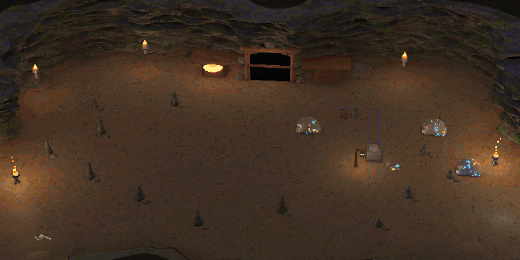
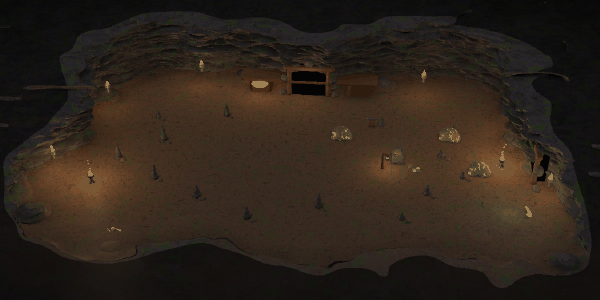
昼3Dの部屋を島のように切り分ける
Claude-Session: https://claude.ai/code/session_01MpJPWy321815AwYbXUCf2V

diff --git a/index.html b/index.html
@@ -1030,12 +1030,12 @@ body:has(.stage) .modal{display:none!important}
 .d3t{flex:0 0 auto;font-size:12px;padding:3px 8px;margin-right:4px;border-radius:8px}
 .d3t.on{background:#7a4a22;border-color:#c98a4a}
 /* 25：昼の3D（部屋を縦に並べる） */
-.d3stack{display:flex;flex-direction:column;padding:0 0 10px;background:#120d0b}
+.d3stack{display:flex;flex-direction:column;padding:0 0 10px;background:#100e0c}
 .d3stack .chall.d3card{position:relative;left:auto;top:auto;width:100%;aspect-ratio:2/1;border-radius:0;overflow:hidden}
 .d3card canvas{position:absolute;inset:0;width:100%;height:100%;display:block;image-rendering:pixelated}
 .d3card .cname{position:absolute;top:6px;left:50%;transform:translateX(-50%);z-index:2;white-space:nowrap}
 .d3stack .chall.sel{outline:2px solid var(--gold);outline-offset:-2px}
-.d3tun{height:16px;display:flex;justify-content:center;background:linear-gradient(#1a1310,#0e0a08)}.d3tun span{width:40px;height:100%;background:linear-gradient(90deg,#3a2a1e,#0b0807 25%,#0b0807 75%,#3a2a1e);border-left:3px solid #5a3e26;border-right:3px solid #5a3e26}
+.d3tun{height:22px;margin:-10px 0;position:relative;z-index:1;display:flex;justify-content:center;background:none;pointer-events:none}.d3tun span{width:26px;height:100%;background:linear-gradient(90deg,#2a2018,#090706 30%,#090706 70%,#2a2018);border-left:2px solid #4a3828;border-right:2px solid #4a3828;border-radius:3px}
 .d3floor{margin:10px 0 6px;text-align:center;color:#e5b85a;font-size:12px;font-weight:700;letter-spacing:.1em}
 </style>
 </head>
@@ -7212,7 +7212,7 @@ document.addEventListener("click", ev => {
 { const _oc2 = openChest19; openChest19 = function (S, c) { if (c.kind !== "lvall") return _oc2(S, c); if (!S.mons.length) return _oc2(S, c);
   return { text: "👑 覚醒", sub: "Lv+3 する子を1体えらんでね", sp: null, feed: 1, awaken: true, evos: [] }; }; }
 
-const VER20 = "No.202（11/18 18:23）";
+const VER20 = "No.203（11/18 18:33）";
 // ================= proto20：ダンジョンを見る画面と、配置する画面を分ける =================
 // ・ダンジョン画面：洞窟を大きく。部屋をタップ → 部屋ボード（全画面）
 // ・🧭育成：育てる→稼ぐ／守るの流れで見る。卒業Lv・毎朝おまかせ
@@ -10981,7 +10981,7 @@ function prebake25(){
 // 部屋を押す＝選ぶ、もう一度＝のぞく、は今まで通り（部屋の札に .chall と data-room を付けているので、今の操作がそのまま効く）
 let day3dOn25 = (() => { try { return localStorage.getItem("day3d25") !== "0"; } catch (e) { return true; } })();
 const D3 = { img: {}, spr: {}, raf: 0, act: {} };
-const DCROP25 = [150, 150, 780, 390], DVR25 = [1080, 708];
+const DCROP25 = [15, 105, 1050, 525], DVR25 = [1080, 708];
 function dproj25(x, y, z){ const c = CAMP24, v = V3.s([x, y, z], c.e), rt = c.M.slice(0, 3), up = c.M.slice(3, 6), fw = c.M.slice(6, 9), zz = V3.d(v, fw);
   const ix = V3.d(v, rt) / zz * c.fl * DVR25[1] + DVR25[0] / 2, iy = DVR25[1] - (V3.d(v, up) / zz * c.fl * DVR25[1] + DVR25[1] / 2);
   return [(ix - DCROP25[0]) / DCROP25[2], (iy - DCROP25[1]) / DCROP25[3], c.fl * DVR25[1] / zz / DCROP25[2], zz]; }
@@ -11005,7 +11005,7 @@ function droom25(i){ const kind = roomKind25(i), on = {}; ROOMSET25[kind].forEac
   const list = all.map(m => ({ sp: m.sp, evo: m.evos || 0, n: 1, act: job(m) }));
   const cast = HAI25.place(on, list, 11 + i * 17);
   const order = all.map((m, k) => ({ m, a: list[k] })).sort((a, b) => HAI25.footR({ sp: b.m.sp, evo: b.m.evos || 0 }) - HAI25.footR({ sp: a.m.sp, evo: a.m.evos || 0 }));
-  const fit = (x, z, r) => { for (let n = 0; n < 30; n++) { const p = dproj25(x, 0, z), pw = r * p[2]; if (p[0] - pw > 0.04 && p[0] + pw < 0.96 && p[1] > 0.32 && p[1] < 0.95) break; x *= 0.92; z = z * 0.9 + 0.3; } return [x, z]; };
+  const fit = (x, z, r) => { for (let n = 0; n < 30; n++) { const p = dproj25(x, 0, z), pw = r * p[2]; if (p[0] - pw > 0.1 && p[0] + pw < 0.9 && p[1] > 0.3 && p[1] < 0.84) break; x *= 0.92; z = z * 0.9 + 0.3; } return [x, z]; };
   const acts = []; cast.forEach((c, k) => { const o = order[k]; if (!o) return; const [fx0, fz0] = fit(c.o[0], c.o[2], HAI25.footR({ sp: o.m.sp, evo: o.m.evos || 0 })); c.o[0] = fx0; c.o[2] = fz0; acts.push({ m: o.m, sp: o.m.sp, evo: o.m.evos || 0, x: c.o[0], z: c.o[2], hx: c.o[0], hz: c.o[2], tx: c.o[0], tz: c.o[2], mode: c.mode, face: Math.random() < 0.5 ? 1 : -1, next: 0, ph: Math.random() * 3 }); });
   if (S.path[i].kind === "lord") acts.push({ lord: true, sp: "lord", evo: typeof lordTier === "function" ? lordTier() : 0, x: 0, z: -3.5, hx: 0, hz: -3.5, tx: 0, tz: -3.5, mode: "idle", face: 1, next: 1e12, ph: 0 });
   return D3.act[i] = { sig, kind, acts }; }
@@ -11015,7 +11015,8 @@ function dcard25(card, i, now, dt){
   const cv = card.querySelector("canvas"), r = cv.getBoundingClientRect(), dpr = Math.min(2, window.devicePixelRatio || 1), W = Math.round(r.width * dpr), H = Math.round(r.height * dpr);
   if (!W) return; if (cv.width !== W || cv.height !== H) { cv.width = W; cv.height = H; }
   const g = cv.getContext("2d"); g.imageSmoothingEnabled = false;
-  const R = droom25(i), bg = dimg25(`bg25/${R.kind}_full.png?v=2`); if (bg.ok) g.drawImage(bg, 0, 0, W, H); else { g.fillStyle = "#1a1412"; g.fillRect(0, 0, W, H); }
+  const R = droom25(i), bg = dimg25(`bg25/${R.kind}_full.png?v=3`); if (bg.ok) g.drawImage(bg, 0, 0, W, H); else { g.fillStyle = "#1a1412"; g.fillRect(0, 0, W, H); }
+  { const E = D3.edge && D3.edge.h === H ? D3.edge : (D3.edge = { h: H, t: (() => { const q = g.createLinearGradient(0, 0, 0, H); q.addColorStop(0, "rgba(16,14,12,1)"); q.addColorStop(0.07, "rgba(16,14,12,0)"); q.addColorStop(0.9, "rgba(16,14,12,0)"); q.addColorStop(1, "rgba(16,14,12,1)"); return q; })() }); g.fillStyle = E.t; g.fillRect(0, 0, W, H); }
   // 動き：ときどき近くへ歩く（働いている子・寝ている子はその場）
   R.acts.forEach(a => { if (a.mode === "idle" && !a.lord && now > a.next) { a.next = now + 2.5 + Math.random() * 4; const ang = Math.random() * 6.28, d = Math.random() * 2.2; a.tx = a.hx + Math.cos(ang) * d; a.tz = a.hz + Math.sin(ang) * d * 0.6; }
     const dx = a.tx - a.x, dz = a.tz - a.z, L = Math.hypot(dx, dz); a.walking = L > 0.08; if (a.walking) { const s = Math.min(L, 1.6 * dt); a.x += dx / L * s; a.z += dz / L * s; if (Math.abs(dx) > 0.05) a.face = dx > 0 ? 1 : -1; } });
